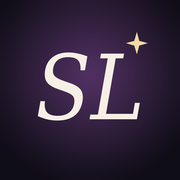
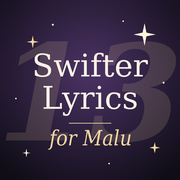
style: novo ícone "Swifter Lyrics for Malu" com o 13 e estrelas
Atualiza a versão do cache do service worker para o iPhone buscar o ícone novo.

Claude-Session: https://claude.ai/code/session_01Egorgsaa5sjfRnJTU1hkhG

diff --git a/public/sw.js b/public/sw.js
@@ -2,7 +2,7 @@
 // que ele abra sem internet. As músicas offline ficam no localStorage, e as
 // chamadas ao Supabase (outro domínio) nunca passam por aqui.
 
-const CACHE_NAME = 'swifter-lyrics-shell-v1'
+const CACHE_NAME = 'swifter-lyrics-shell-v2'
 const NAVIGATION_TIMEOUT_MS = 3500
 const SHELL_URLS =['/', '/manifest.webmanifest', '/icon-192.png', '/icon-512.png', '/apple-touch-icon.png']
 
